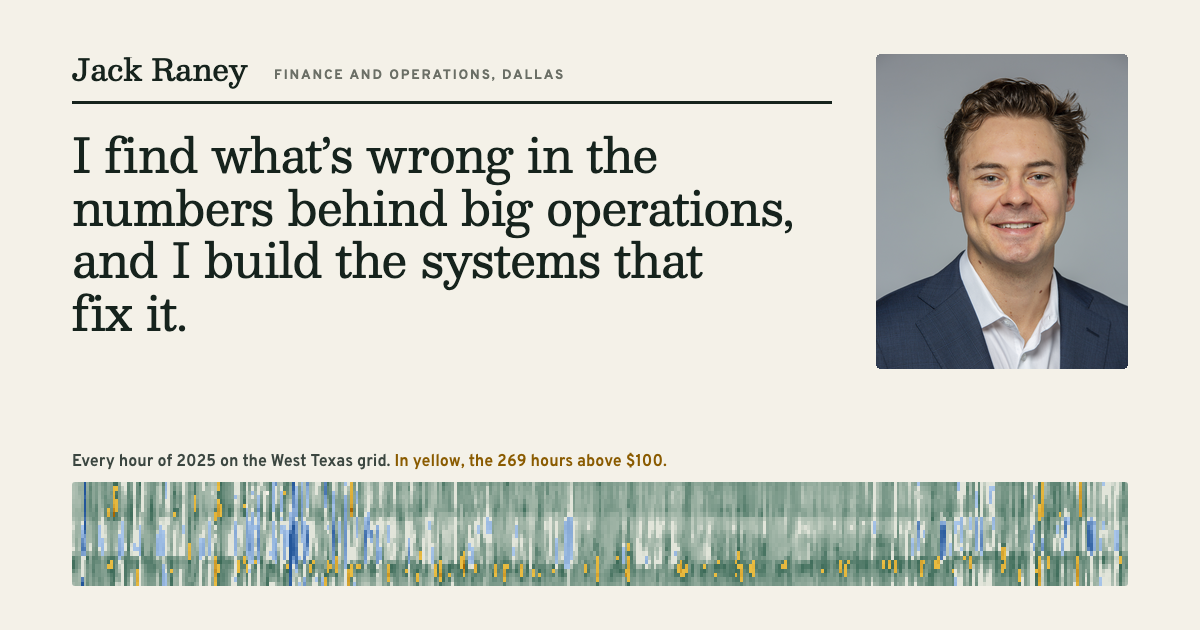
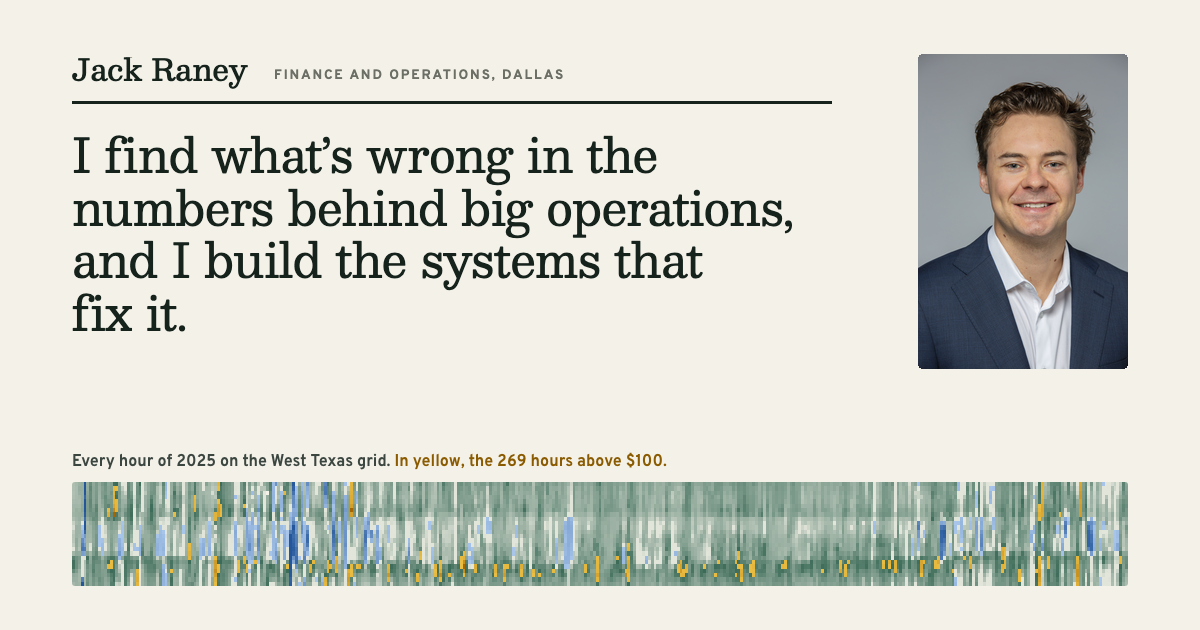
Show the full headshot uncropped (2:3) on home, About and share image

Changed region(s): [[0.7092, 0.0603, 0.9558, 0.6032], [0.925, 0.5429, 0.9558, 0.573]]

diff --git a/index.html b/index.html
@@ -23,7 +23,7 @@
   <link rel="preconnect" href="https://fonts.googleapis.com">
   <link rel="preconnect" href="https://fonts.gstatic.com" crossorigin>
   <link rel="stylesheet" href="https://fonts.googleapis.com/css2?family=Besley:wght@400..700&family=Overpass:ital,wght@0,300..900;1,300..900&family=Overpass+Mono:wght@400;500&display=swap">
-  <link rel="stylesheet" href="assets/css/site.css?v=ebad2cd713">
+  <link rel="stylesheet" href="assets/css/site.css?v=e842e50463">
 </head>
 <body>
 
@@ -50,7 +50,7 @@
     <h1 class="display" id="intro">I find what’s wrong in the numbers behind big operations, and I build the systems that fix&nbsp;it.</h1>
     <div class="intro__row">
       <figure class="intro__photo">
-        <img src="assets/img/jack-raney.jpg" width="600" height="600" alt="Jack Raney">
+        <img src="assets/img/jack-raney.jpg" width="1200" height="1800" alt="Jack Raney">
       </figure>
       <div class="intro__text">
         <p class="lede">At MARA, I was the only analyst under the VP of Finance for 18 bitcoin mining sites: 1.8&nbsp;GW of load and $516&nbsp;million a year in power. When I was asked to look into our power bills, I traced <a class="inline-link" href="power-bill.html">$1.8&nbsp;million in billing errors</a> back to their source. I also helped model what it would take to convert mining sites to AI and HPC. Before that, I underwrote more than 50 commercial real estate loans at Thorofare Capital, across bridge, mezzanine and construction deals. Since then, I’ve built Archibald, an AI agent system that runs my own finances, email and schedule. It became the starting point for Otian&nbsp;AI, the company I co-founded to bring the same kind of agents to small businesses.</p>

diff --git a/about.html b/about.html
@@ -23,7 +23,7 @@
   <link rel="preconnect" href="https://fonts.googleapis.com">
   <link rel="preconnect" href="https://fonts.gstatic.com" crossorigin>
   <link rel="stylesheet" href="https://fonts.googleapis.com/css2?family=Besley:wght@400..700&family=Overpass:ital,wght@0,300..900;1,300..900&family=Overpass+Mono:wght@400;500&display=swap">
-  <link rel="stylesheet" href="assets/css/site.css?v=ebad2cd713">
+  <link rel="stylesheet" href="assets/css/site.css?v=e842e50463">
 </head>
 <body>
 
@@ -50,7 +50,7 @@
     <div class="doc-head__inner about-head">
       <h1>I’m a finance and operations person who builds.</h1>
       <figure class="about-photo">
-        <img class="portrait" src="assets/img/jack-raney.jpg" width="600" height="600" alt="Jack Raney">
+        <img class="portrait" src="assets/img/jack-raney.jpg" width="1200" height="1800" alt="Jack Raney">
       </figure>
     </div>
   </header>

diff --git a/resume.html b/resume.html
@@ -23,7 +23,7 @@
   <link rel="preconnect" href="https://fonts.googleapis.com">
   <link rel="preconnect" href="https://fonts.gstatic.com" crossorigin>
   <link rel="stylesheet" href="https://fonts.googleapis.com/css2?family=Besley:wght@400..700&family=Overpass:ital,wght@0,300..900;1,300..900&family=Overpass+Mono:wght@400;500&display=swap">
-  <link rel="stylesheet" href="assets/css/site.css?v=ebad2cd713">
+  <link rel="stylesheet" href="assets/css/site.css?v=e842e50463">
   <style>
     /* The résumé as a sheet of paper on the page; the same markup prints to the PDF. */
     :root { --sheet: #fffdf8; }

diff --git a/404.html b/404.html
@@ -12,7 +12,7 @@
   <link rel="preconnect" href="https://fonts.googleapis.com">
   <link rel="preconnect" href="https://fonts.gstatic.com" crossorigin>
   <link rel="stylesheet" href="https://fonts.googleapis.com/css2?family=Besley:wght@400..700&family=Overpass:ital,wght@0,300..900;1,300..900&family=Overpass+Mono:wght@400;500&display=swap">
-  <link rel="stylesheet" href="/assets/css/site.css?v=ebad2cd713">
+  <link rel="stylesheet" href="/assets/css/site.css?v=e842e50463">
 </head>
 <body>
 

diff --git a/archibald.html b/archibald.html
@@ -23,7 +23,7 @@
   <link rel="preconnect" href="https://fonts.googleapis.com">
   <link rel="preconnect" href="https://fonts.gstatic.com" crossorigin>
   <link rel="stylesheet" href="https://fonts.googleapis.com/css2?family=Besley:wght@400..700&family=Overpass:ital,wght@0,300..900;1,300..900&family=Overpass+Mono:wght@400;500&display=swap">
-  <link rel="stylesheet" href="assets/css/site.css?v=ebad2cd713">
+  <link rel="stylesheet" href="assets/css/site.css?v=e842e50463">
 </head>
 <body>
 

diff --git a/bitcoin-dca.html b/bitcoin-dca.html
@@ -24,7 +24,7 @@
   <link rel="preconnect" href="https://fonts.googleapis.com">
   <link rel="preconnect" href="https://fonts.gstatic.com" crossorigin>
   <link rel="stylesheet" href="https://fonts.googleapis.com/css2?family=Besley:wght@400..700&family=Overpass:ital,wght@0,300..900;1,300..900&family=Overpass+Mono:wght@400;500&display=swap">
-  <link rel="stylesheet" href="assets/css/site.css?v=ebad2cd713">
+  <link rel="stylesheet" href="assets/css/site.css?v=e842e50463">
 </head>
 <body>
 

diff --git a/bitcoin-glossary.html b/bitcoin-glossary.html
@@ -24,7 +24,7 @@
   <link rel="preconnect" href="https://fonts.googleapis.com">
   <link rel="preconnect" href="https://fonts.gstatic.com" crossorigin>
   <link rel="stylesheet" href="https://fonts.googleapis.com/css2?family=Besley:wght@400..700&family=Overpass:ital,wght@0,300..900;1,300..900&family=Overpass+Mono:wght@400;500&display=swap">
-  <link rel="stylesheet" href="assets/css/site.css?v=ebad2cd713">
+  <link rel="stylesheet" href="assets/css/site.css?v=e842e50463">
 </head>
 <body>
 

diff --git a/bitcoin-reading.html b/bitcoin-reading.html
@@ -24,7 +24,7 @@
   <link rel="preconnect" href="https://fonts.googleapis.com">
   <link rel="preconnect" href="https://fonts.gstatic.com" crossorigin>
   <link rel="stylesheet" href="https://fonts.googleapis.com/css2?family=Besley:wght@400..700&family=Overpass:ital,wght@0,300..900;1,300..900&family=Overpass+Mono:wght@400;500&display=swap">
-  <link rel="stylesheet" href="assets/css/site.css?v=ebad2cd713">
+  <link rel="stylesheet" href="assets/css/site.css?v=e842e50463">
 </head>
 <body>
 

diff --git a/bitcoin-rules.html b/bitcoin-rules.html
@@ -24,7 +24,7 @@
   <link rel="preconnect" href="https://fonts.googleapis.com">
   <link rel="preconnect" href="https://fonts.gstatic.com" crossorigin>
   <link rel="stylesheet" href="https://fonts.googleapis.com/css2?family=Besley:wght@400..700&family=Overpass:ital,wght@0,300..900;1,300..900&family=Overpass+Mono:wght@400;500&display=swap">
-  <link rel="stylesheet" href="assets/css/site.css?v=ebad2cd713">
+  <link rel="stylesheet" href="assets/css/site.css?v=e842e50463">
 </head>
 <body>
 

diff --git a/building-an-agent.html b/building-an-agent.html
@@ -24,7 +24,7 @@
   <link rel="preconnect" href="https://fonts.googleapis.com">
   <link rel="preconnect" href="https://fonts.gstatic.com" crossorigin>
   <link rel="stylesheet" href="https://fonts.googleapis.com/css2?family=Besley:wght@400..700&family=Overpass:ital,wght@0,300..900;1,300..900&family=Overpass+Mono:wght@400;500&display=swap">
-  <link rel="stylesheet" href="assets/css/site.css?v=ebad2cd713">
+  <link rel="stylesheet" href="assets/css/site.css?v=e842e50463">
 </head>
 <body>
 

diff --git a/calculator.html b/calculator.html
@@ -23,7 +23,7 @@
   <link rel="preconnect" href="https://fonts.googleapis.com">
   <link rel="preconnect" href="https://fonts.gstatic.com" crossorigin>
   <link rel="stylesheet" href="https://fonts.googleapis.com/css2?family=Besley:wght@400..700&family=Overpass:ital,wght@0,300..900;1,300..900&family=Overpass+Mono:wght@400;500&display=swap">
-  <link rel="stylesheet" href="assets/css/site.css?v=ebad2cd713">
+  <link rel="stylesheet" href="assets/css/site.css?v=e842e50463">
 </head>
 <body>
 

diff --git a/cost-model.html b/cost-model.html
@@ -23,7 +23,7 @@
   <link rel="preconnect" href="https://fonts.googleapis.com">
   <link rel="preconnect" href="https://fonts.gstatic.com" crossorigin>
   <link rel="stylesheet" href="https://fonts.googleapis.com/css2?family=Besley:wght@400..700&family=Overpass:ital,wght@0,300..900;1,300..900&family=Overpass+Mono:wght@400;500&display=swap">
-  <link rel="stylesheet" href="assets/css/site.css?v=ebad2cd713">
+  <link rel="stylesheet" href="assets/css/site.css?v=e842e50463">
 </head>
 <body>
 
